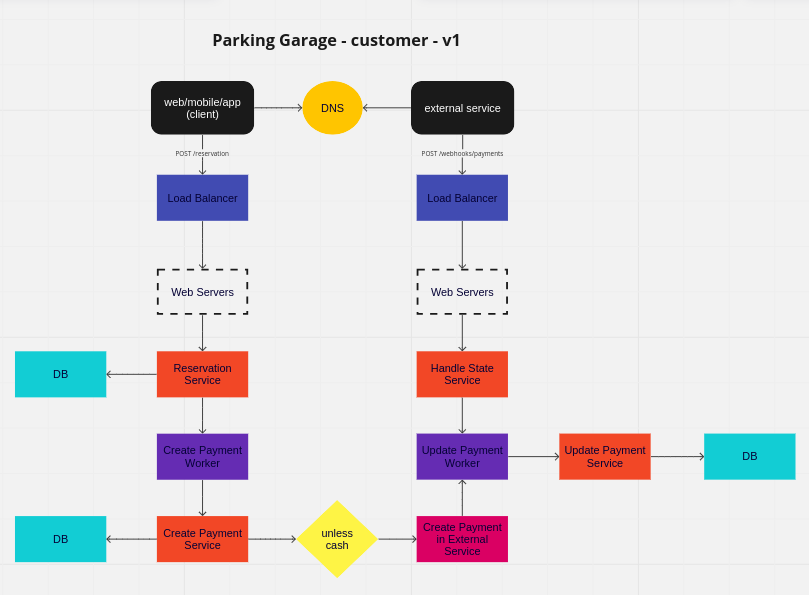
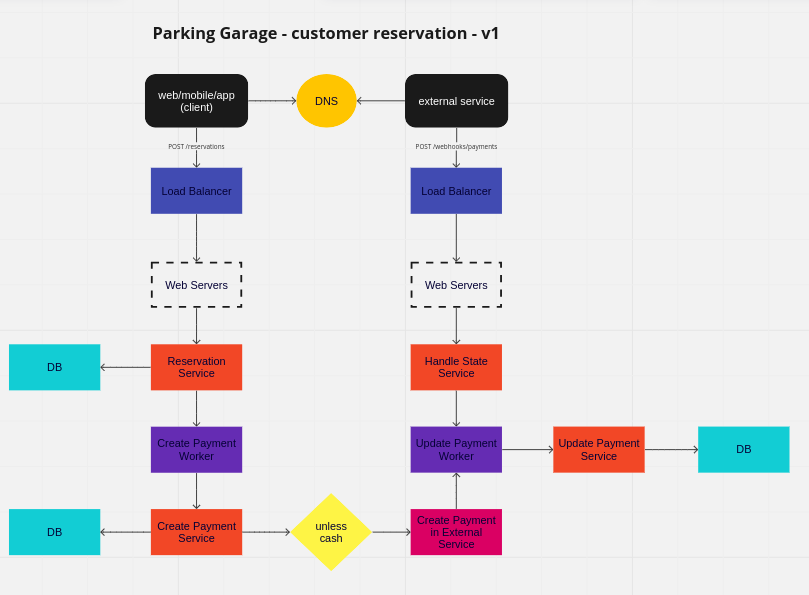
change diagram

diff --git a/examples/parking-garage.md b/examples/parking-garage.md
@@ -84,6 +84,27 @@
   - type (cash, credit card, debit card, pix)
   - state (paid, pending, canceled)
   - external_id
+  - amount
+
+- Price
+  - parking_id
+  - type (bike, car, motorcycle, large car)
+  - amount
+
+### Endpoints
+
+- POST /reservations
+  - body:
+    - customer_id*
+    - vehicle_id*
+    - start_date*
+    - end_date
+  - considerações: o parking_space será definido pelo tamanho do veículo e disponibilidade para o horário. Caso não tenha, será informado pelo sistema. Não é necessário cadastrar uma data final. O sistema irá calcular o valor total da reserva.
+  
+- POST /webhooks/payments
+  - body:
+    - external_id*
+    - state*
   
 ### Diagrama
 
